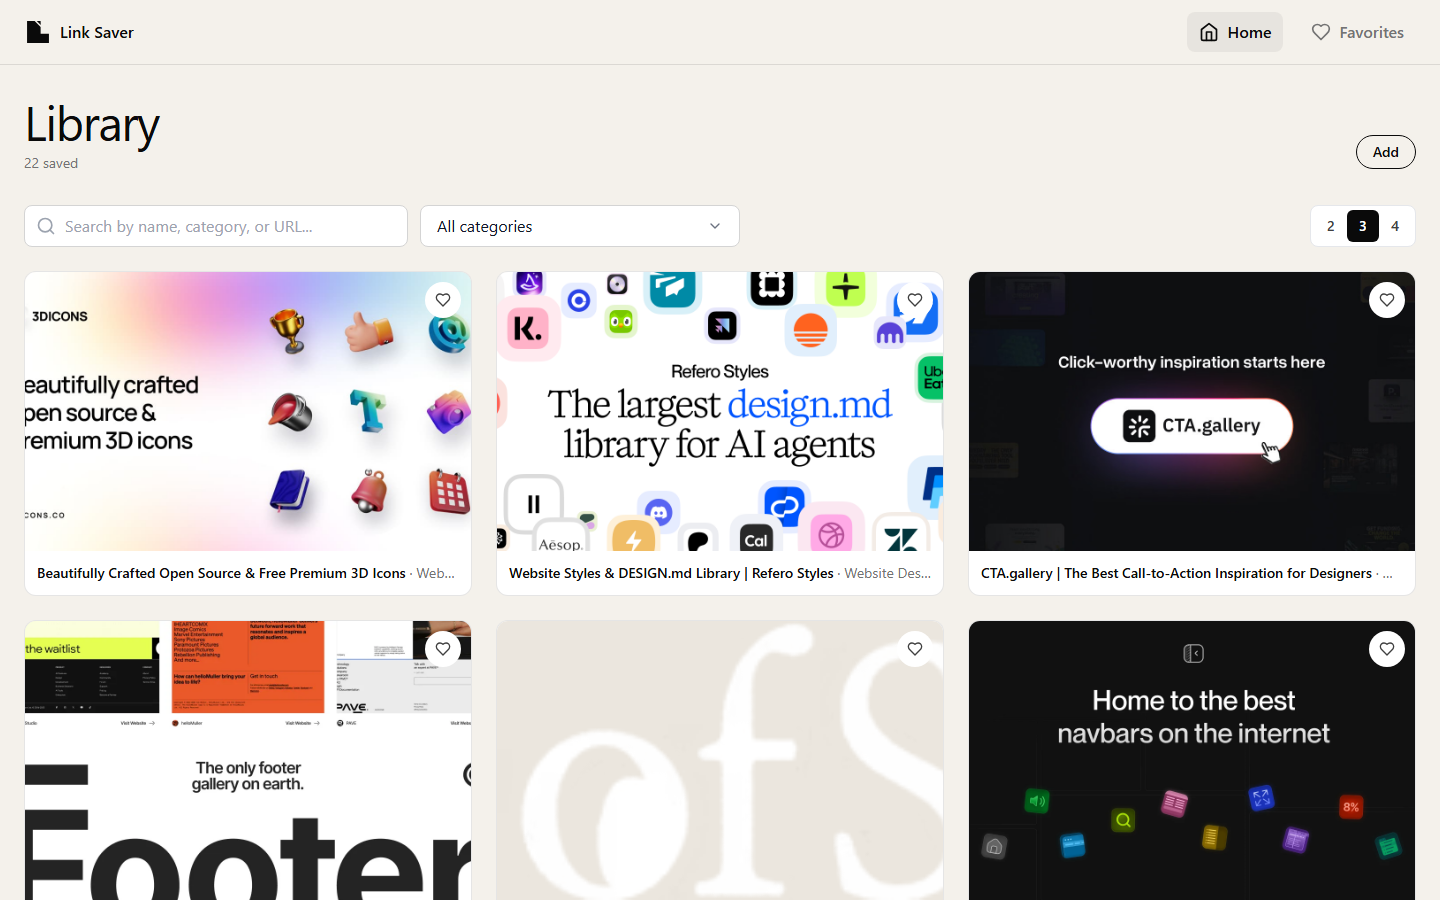
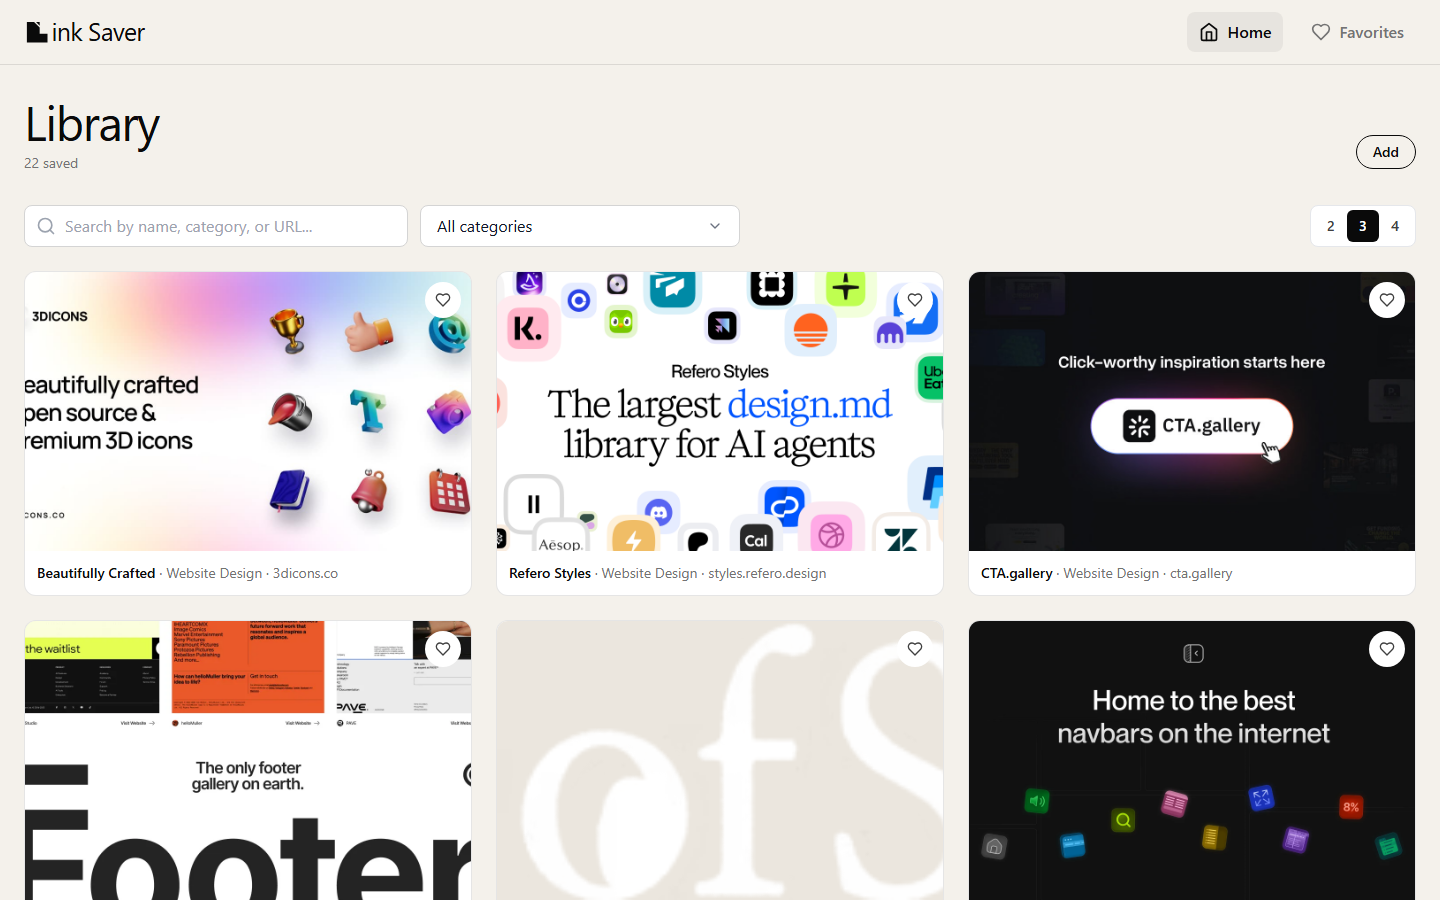
Set Link Saver as a serif wordmark and shorten card captions. The folded L is the first letter, and each line ends with the category and domain.

diff --git a/WebsiteLinkSaver/src/components/Navbar.tsx b/WebsiteLinkSaver/src/components/Navbar.tsx
@@ -16,9 +16,17 @@ const Navbar = () => {
       <div className="max-w-[1440px] mx-auto px-4 sm:px-6 lg:px-6">
         <div className="flex justify-between items-center h-16">
           {/* Logo */}
-          <Link to="/" className="flex items-center space-x-2">
-            <Logo className="h-7 w-7 text-neutral-950" />
-            <span className="text-base font-medium text-neutral-950">Link Saver</span>
+          <Link
+            to="/"
+            aria-label="Link Saver"
+            className="flex items-end text-neutral-950"
+          >
+            <span aria-hidden="true" className="flex items-end gap-px">
+              <Logo className="h-[1.65rem] w-[1.65rem] shrink-0" />
+              <span className="mb-px font-display text-[1.55rem] leading-none tracking-tight">
+                ink Saver
+              </span>
+            </span>
           </Link>
 
           {/* Navigation Links */}

diff --git a/WebsiteLinkSaver/src/components/LinkCard.tsx b/WebsiteLinkSaver/src/components/LinkCard.tsx
@@ -1,6 +1,6 @@
 import { ExternalLink, Trash2, Edit, Heart } from "lucide-react";
 import { WebsiteLink } from "../types";
-import { isIconImage } from "../utils/links";
+import { isIconImage, shortSiteName } from "../utils/links";
 import { useState } from "react";
 import ConfirmationModal from "./ConfirmationModal";
 
@@ -28,6 +28,7 @@ const LinkCard = ({
   };
 
   const domain = websiteDomain(website.url);
+  const name = shortSiteName(website.name);
   const metaTitle = [website.name, website.category.trim(), domain]
     .filter(Boolean)
     .join(" · ");
@@ -122,7 +123,7 @@ const LinkCard = ({
             onClick={handleVisit}
             className="font-medium text-neutral-950"
           >
-            {website.name}
+            {name}
           </button>
           {website.category.trim() && (
             <span>{` · ${website.category}`}</span>

diff --git a/WebsiteLinkSaver/src/utils/links.ts b/WebsiteLinkSaver/src/utils/links.ts
@@ -49,6 +49,20 @@ export function isIconImage(url: string): boolean {
   return url.includes("google.com/s2/favicons") || url.includes("icons.duckduckgo.com");
 }
 
+export function shortSiteName(name: string): string {
+  const trimmed = name.trim();
+  if (!trimmed) return trimmed;
+  const parts = trimmed
+    .split(/\s*(?:\||—|–)\s*/)
+    .map((part) => part.trim())
+    .filter(Boolean);
+  const brief = parts.find((part) => part.length <= 22);
+  const chosen = brief ?? parts.sort((a, b) => a.length - b.length)[0] ?? trimmed;
+  const words = chosen.split(/\s+/);
+  if (chosen.length > 22 && words.length > 2) return words.slice(0, 2).join(" ");
+  return chosen;
+}
+
 export function titleFromUrl(url: string): string {
   try {
     const host = new URL(ensureHttps(url)).hostname.replace(/^www\./, "");
